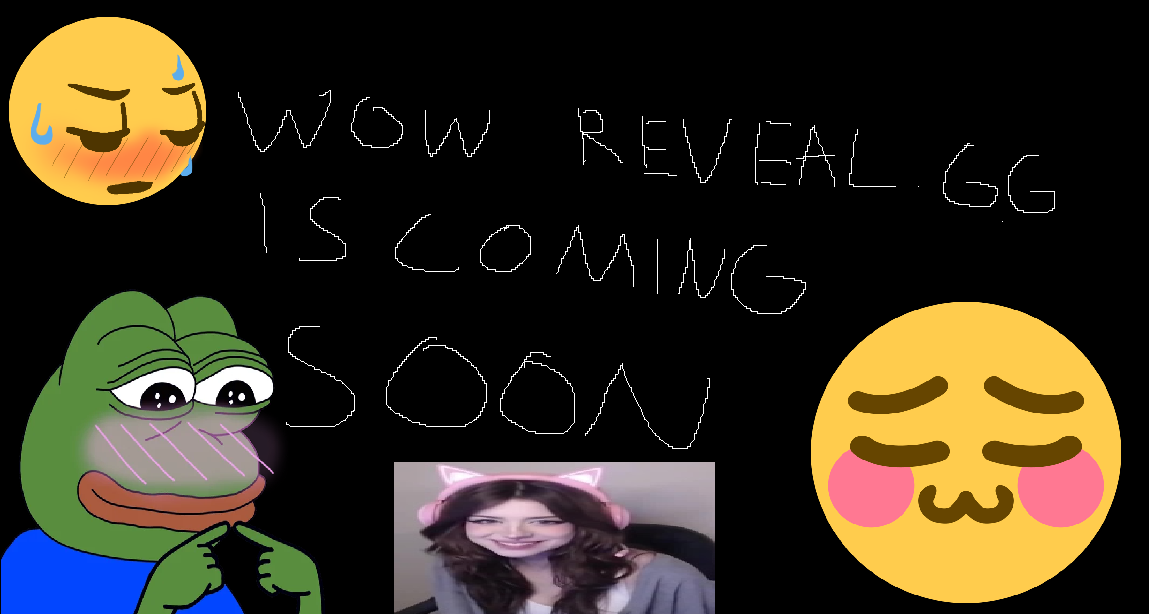
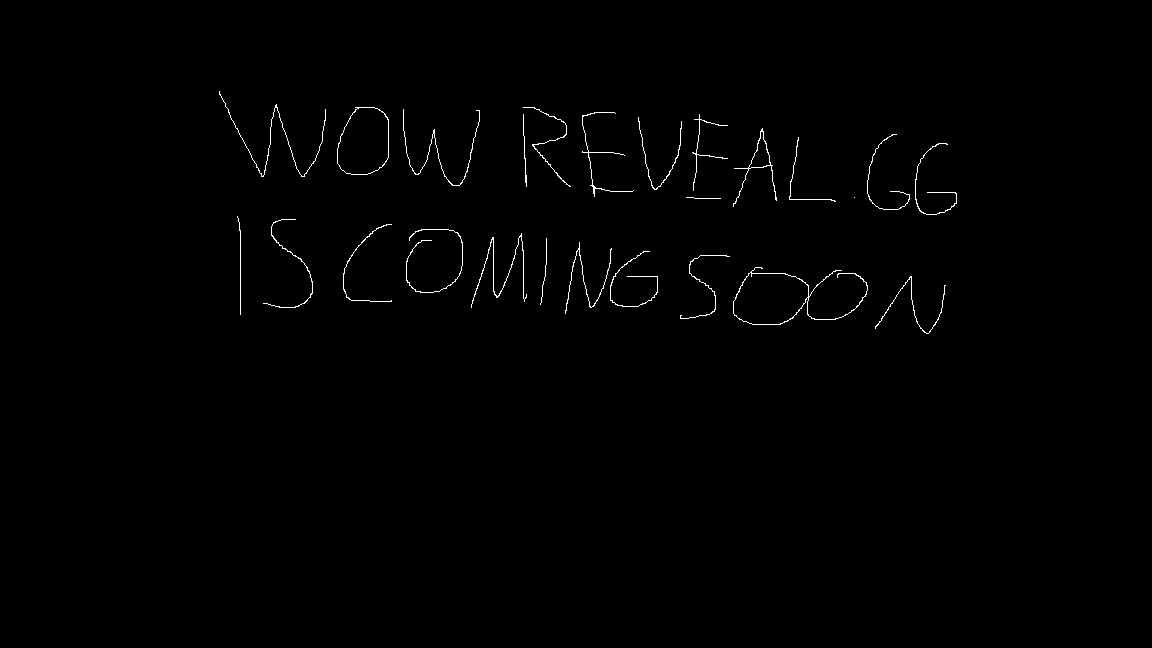
hehe

diff --git a/index.html b/index.html
@@ -3,9 +3,50 @@
 <head>
     <meta charset="UTF-8">
     <meta name="viewport" content="width=device-width, initial-scale=1.0">
-    <title>Your Image Title</title>
+    <style>
+        html, body {
+            margin: 0;
+            padding: 0;
+            overflow: hidden;
+            height: 100%;
+        }
+        .image-container {
+            position: relative;
+            width: 100%;
+            height: 100%; 
+            display: flex;
+            justify-content: center;
+            align-items: center; 
+        }
+        .image-container img.static {
+            width: 100%;
+            height: auto;
+            min-height: 100%; 
+            object-fit: cover; 
+        }
+        .image-container img.gif {
+            position: absolute;
+            height: auto;
+        }
+        .gif1, .gif2, .gif3, .gif4, .gif6 {
+            width: 100px; 
+        }
+        .top-left { top: 0; left: 0; }
+        .top-right { top: 0; right: 0; }
+        .bottom-left { bottom: 0; left: 0; }
+        .bottom-right { bottom: 0; right: 0; }
+        .bottom-middle { bottom: 0; left: 50%; transform: translateX(-50%); }
+        .top-middle { top: 0; left: 50%; transform: translateX(-50%); }
+    </style>
 </head>
 <body>
-    <img src="wtf.png" alt="Descriptive Alt Text" style="width:100%; height:auto;">
+    <div class="image-container">
+        <img src="wtf.png" class="static" alt="Descriptive Alt Text">
+        <img src="1.gif" class="gif top-left" alt="Top Left GIF" style="width: 350px;">
+        <img src="3.gif" class="gif top-right" alt="Top Right GIF" style="width: 200px;">
+        <img src="4.gif" class="gif bottom-left" alt="Bottom Left GIF" style="width: 500px;">
+        <img src="2.gif" class="gif bottom-middle" alt="Bottom Middle GIF" style="width: 350px;">
+        <img src="6.gif" class="gif bottom-right" alt="Bottom Right GIF" style="width: 300px;">
+    </div>
 </body>
 </html>
